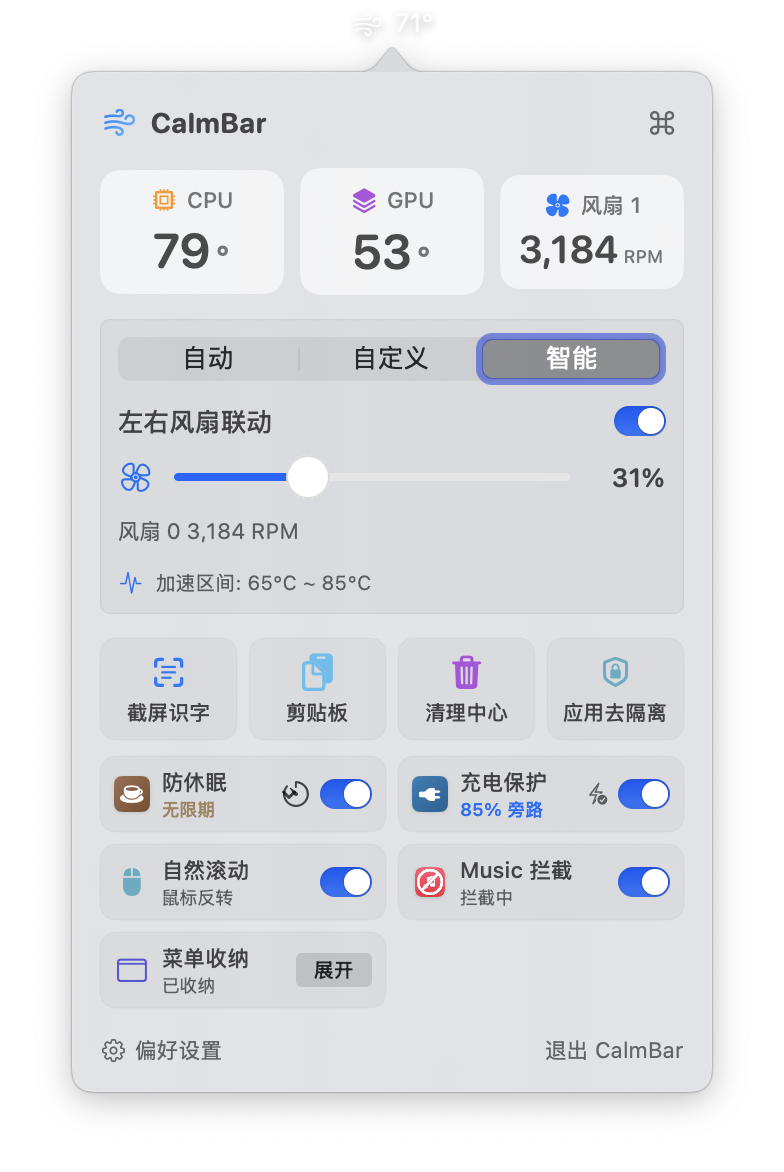
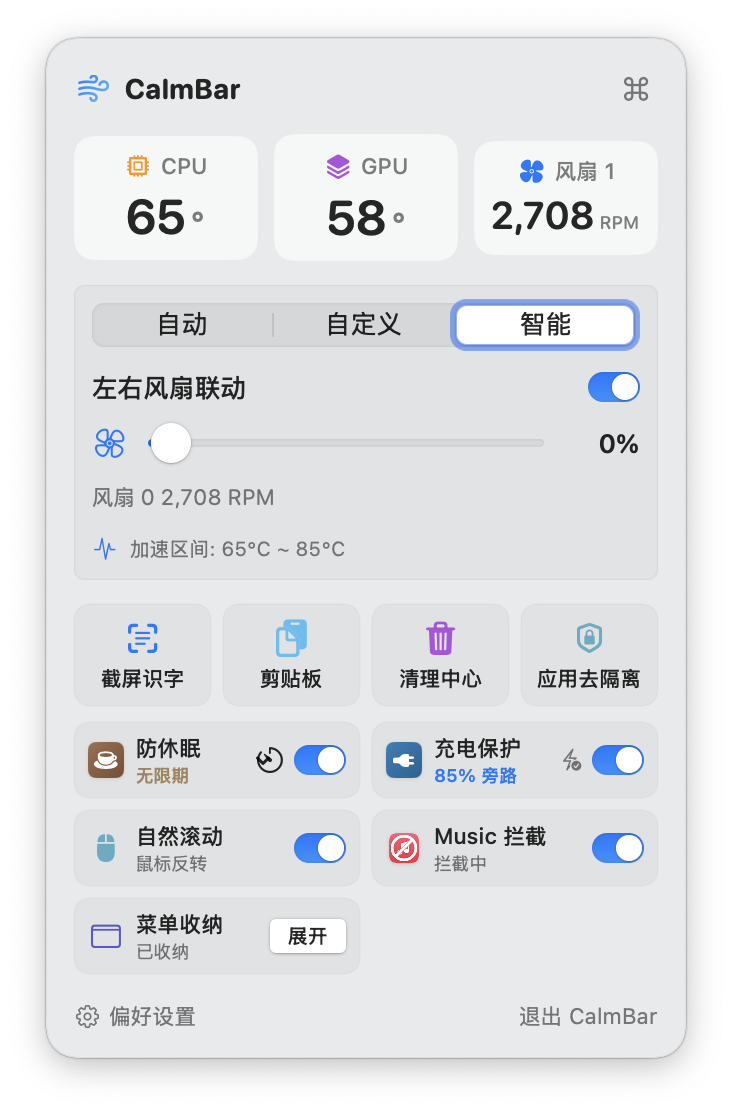
style: 优化菜单栏弹窗样式为无箭头悬浮卡片并同步更新界面预览图

diff --git a/app/Sources/CalmBar/UI/StatusBarManager.swift b/app/Sources/CalmBar/UI/StatusBarManager.swift
@@ -2,6 +2,15 @@ import AppKit
 import SwiftUI
 import Combine
 
+private final class StatusPanel: NSPanel {
+    override var canBecomeKey: Bool { true }
+    override var canBecomeMain: Bool { true }
+
+    override func cancelOperation(_ sender: Any?) {
+        StatusBarManager.shared.closePopover()
+    }
+}
+
 @MainActor
 public final class StatusBarManager: ObservableObject {
     public static let shared = StatusBarManager()
@@ -9,13 +18,14 @@ public final class StatusBarManager: ObservableObject {
     @Published public var selectedSettingsTab: SettingsTab = .thermal
 
     private var statusItem: NSStatusItem?
-    private var popover: NSPopover?
+    private var panel: StatusPanel?
     private var settingsWindow: NSWindow?
+    private var eventMonitor: Any?
     private var cancellables = Set<AnyCancellable>()
 
     private init() {
         setupStatusItem()
-        setupPopover()
+        setupPanel()
         setupObservers()
     }
 
@@ -36,16 +46,28 @@ public final class StatusBarManager: ObservableObject {
         updateStatusItemTitle()
     }
 
-    private func setupPopover() {
-        let popover = NSPopover()
-        popover.contentSize = NSSize(width: 320, height: 380)
-        popover.behavior = .transient
-        popover.contentViewController = NSHostingController(
+    private func setupPanel() {
+        let panel = StatusPanel(
+            contentRect: NSRect(x: 0, y: 0, width: 320, height: 380),
+            styleMask: [.borderless, .nonactivatingPanel],
+            backing: .buffered,
+            defer: false
+        )
+        panel.isFloatingPanel = true
+        panel.level = .statusBar
+        panel.collectionBehavior = [.canJoinAllSpaces, .fullScreenAuxiliary]
+        panel.isMovableByWindowBackground = false
+        panel.isReleasedWhenClosed = false
+        panel.backgroundColor = .clear
+        panel.isOpaque = false
+        panel.hasShadow = true
+
+        panel.contentViewController = NSHostingController(
             rootView: PopoverContentView(openSettingsAction: { [weak self] tab in
                 self?.openSettingsWindow(tab: tab)
             })
         )
-        self.popover = popover
+        self.panel = panel
     }
 
     private func setupObservers() {
@@ -79,24 +101,87 @@ public final class StatusBarManager: ObservableObject {
     }
 
     @objc private func togglePopover(_ sender: AnyObject?) {
-        guard let button = statusItem?.button, let popover = popover else { return }
-
         let currentEvent = NSApp.currentEvent
         if currentEvent?.type == .rightMouseUp {
             openSettingsWindow()
             return
         }
 
-        if popover.isShown {
-            popover.performClose(sender)
+        if let panel = panel, panel.isVisible {
+            closePopover()
         } else {
-            popover.show(relativeTo: button.bounds, of: button, preferredEdge: .minY)
-            popover.contentViewController?.view.window?.makeKey()
+            showPopover()
+        }
+    }
+
+    public func showPopover() {
+        guard let button = statusItem?.button else { return }
+
+        if panel == nil {
+            setupPanel()
+        }
+
+        guard let panel = panel else { return }
+
+        positionPanel(panel, relativeTo: button)
+        panel.makeKeyAndOrderFront(nil)
+        NSApp.activate(ignoringOtherApps: true)
+        startMonitoring()
+    }
+
+    private func positionPanel(_ panel: NSPanel, relativeTo button: NSStatusBarButton) {
+        guard let buttonWindow = button.window else { return }
+        let buttonRect = buttonWindow.convertToScreen(button.bounds)
+        let screen = buttonWindow.screen ?? NSScreen.main ?? NSScreen.screens.first
+        let screenFrame = screen?.visibleFrame ?? NSRect(x: 0, y: 0, width: 1440, height: 900)
+
+        let fittingSize = panel.contentViewController?.view.fittingSize ?? NSSize(width: 320, height: 380)
+        let panelWidth = max(320, fittingSize.width)
+        let panelHeight = fittingSize.height > 50 ? fittingSize.height : 380
+
+        var x = buttonRect.midX - (panelWidth / 2.0)
+        if x + panelWidth > screenFrame.maxX - 8 {
+            x = screenFrame.maxX - panelWidth - 8
+        }
+        if x < screenFrame.minX + 8 {
+            x = screenFrame.minX + 8
+        }
+
+        let y = buttonRect.minY - panelHeight - 4
+        panel.setFrame(NSRect(x: x, y: y, width: panelWidth, height: panelHeight), display: true)
+    }
+
+    private func startMonitoring() {
+        stopMonitoring()
+        eventMonitor = NSEvent.addGlobalMonitorForEvents(matching: [.leftMouseDown, .rightMouseDown]) { [weak self] _ in
+            guard let self = self, let panel = self.panel, panel.isVisible else { return }
+            let mouseLocation = NSEvent.mouseLocation
+
+            if panel.frame.contains(mouseLocation) {
+                return
+            }
+
+            if let button = self.statusItem?.button, let buttonWindow = button.window {
+                let buttonRect = buttonWindow.convertToScreen(button.bounds)
+                if buttonRect.contains(mouseLocation) {
+                    return
+                }
+            }
+
+            self.closePopover()
+        }
+    }
+
+    private func stopMonitoring() {
+        if let monitor = eventMonitor {
+            NSEvent.removeMonitor(monitor)
+            eventMonitor = nil
         }
     }
 
     public func closePopover() {
-        popover?.performClose(nil)
+        stopMonitoring()
+        panel?.orderOut(nil)
     }
 
     public func openSettingsWindow(tab: SettingsTab = .thermal) {

diff --git a/app/Sources/CalmBar/UI/PopoverContentView.swift b/app/Sources/CalmBar/UI/PopoverContentView.swift
@@ -68,7 +68,15 @@ public struct PopoverContentView: View {
         }
         .padding(14)
         .frame(width: 320)
-        .background(.regularMaterial)
+        .background(
+            RoundedRectangle(cornerRadius: 16, style: .continuous)
+                .fill(.regularMaterial)
+        )
+        .overlay(
+            RoundedRectangle(cornerRadius: 16, style: .continuous)
+                .stroke(Color.primary.opacity(0.12), lineWidth: 0.5)
+        )
+        .clipShape(RoundedRectangle(cornerRadius: 16, style: .continuous))
     }
 
     // MARK: - Header Bar
